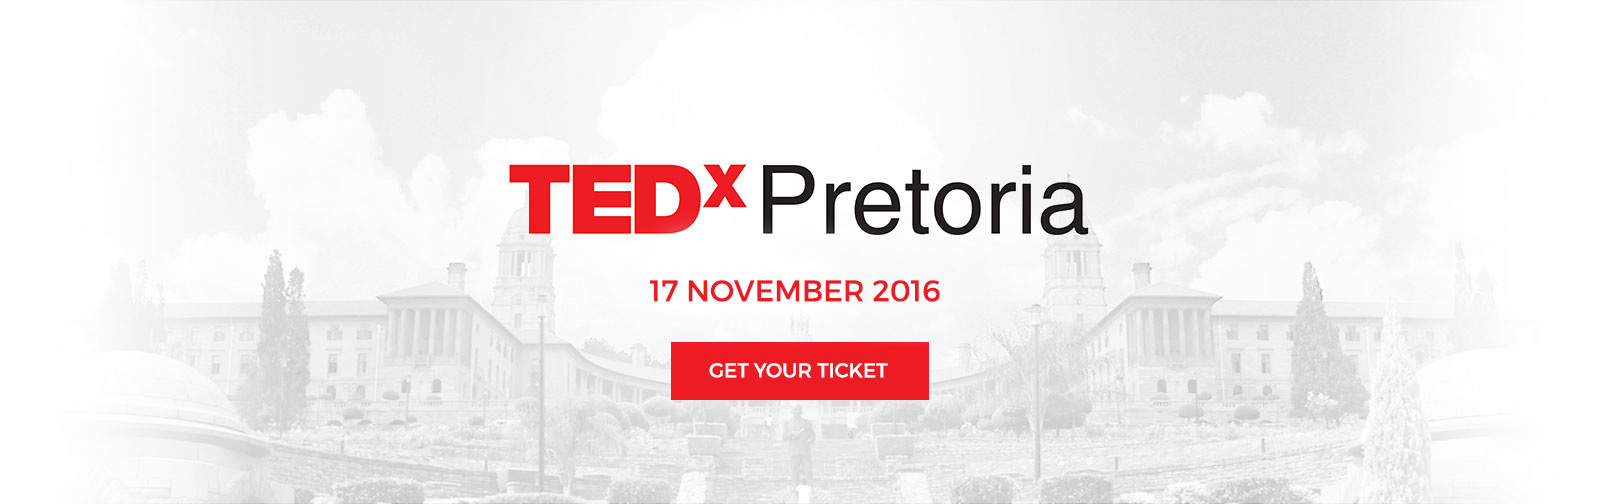
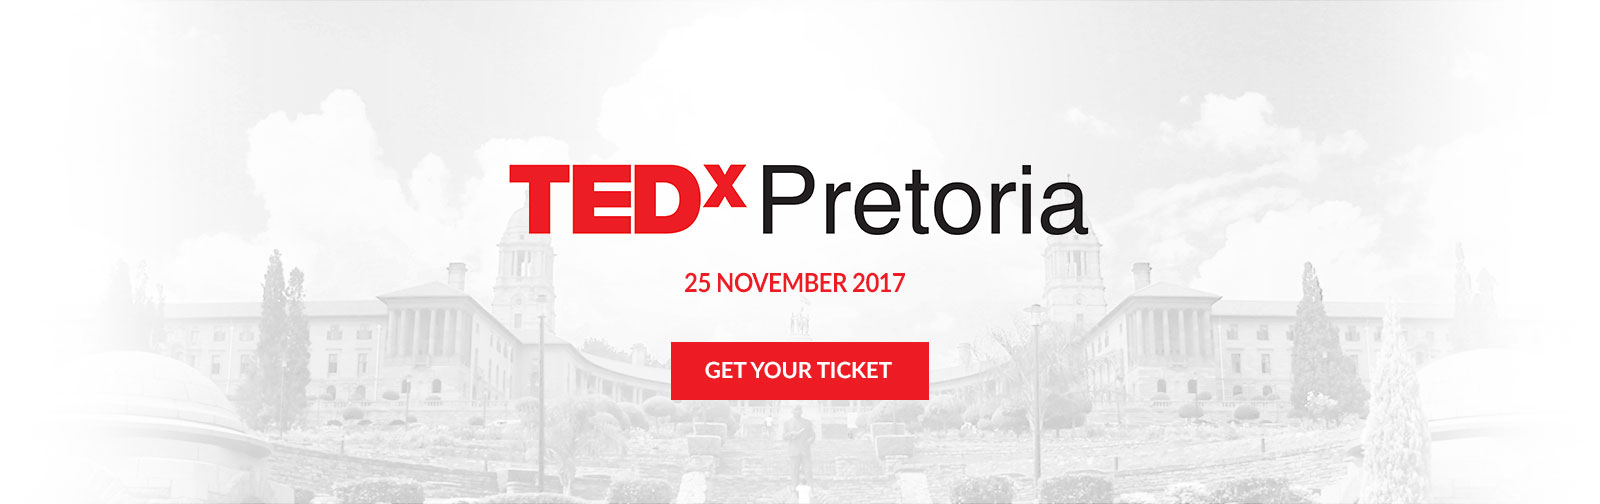
2017 - Initial Details
Ticket Updates, Banner Update, misc.

Changed region(s): [[0.4062, 0.5357, 0.5938, 0.5952], [0.4375, 0.7143, 0.5625, 0.7738], [0.4062, 0.4464, 0.4375, 0.4762]]

diff --git a/wwwroot/index.html b/wwwroot/index.html
@@ -24,7 +24,7 @@
 			<a id="header-logo-link" href="/">
 				<img class="header-logo" src="/images/logo.png" alt="Logo">
 			</a>
-			
+
 
 			<div class="header-actions">
 				<a href="javascript:;" class="menu-button" id="menu-button">
@@ -34,7 +34,7 @@
 
 			<nav>
 				<ul class="sf-menu clearfix">
-					
+
 					<li><a href="#section-home">Home</a></li>
 					<li><a href="#section-about">About</a></li>
 					<li><a href="#section-tickets">Tickets</a></li>
@@ -44,7 +44,7 @@
 					<li><a href="#section-partners">Partners</a></li>
 					<li><a href="#section-team">Team</a></li>
 					<li><a href="#section-contact">Contact</a></li>
-					
+
 				</ul>
 			</nav>
 
@@ -60,16 +60,13 @@
 			<div class="flexslider">
 			  <ul class="slides">
 			    <li>
-			      <a href="#section-tickets"><img src="/images/slider-1.jpg" /></a>
-			    </li>
-			    <li>
-			      <a href="#section-tickets"><img src="/images/slider-2.jpg" /></a>
+			      <a href="https://www.quicket.co.za/events/34308-tedxpretoria/"><img src="/images/slider-1.jpg" /></a>
 			    </li>
 			  </ul>
 			</div>
 
 		</section>
-		
+
 		<section class="red parallax">
 
 			<article>
@@ -80,7 +77,7 @@
 				<div class="column-container">
 
 					<div class="columns-2">
-						
+
 						<p>The mind-shifting short-talk phenomenon returns to Pretoria in November for a day of disruptive ideas and bold new voices challenging a business-savvy audience to reboot their thoughts and actions to meet the needs of the future.</p>
 						<p>The theme for this year’s event is “FAST FORWARD”- with change-makers, entrepreneurs, future thinkers, poets and athletes exploring the importance and impact of radical ideas and fast change in an age of upheaval.</p>
 						<p>This will be Pretoria's fourth TEDxPretoria - a localisedoffshoot of the hugely popular Technology, Education and Design (TED) series of talks which has become an international movement under the banner of "Ideas worth spreading". The talks, which are freely available online, are widely recognised   as one of the world's most inspiring sources of fresh thinking on a wide range of cultural and scientific subjects.</p>
@@ -100,7 +97,7 @@
 				<div class="column-container">
 					<div class="columns-2">
 						<p>In the spirit of ideas worth spreading, TEDx is a program of local, selforganized events that bring people together to share a TED-like experience. At a TEDx event, TEDTalks video and live speakers combine to spark deep discussion and connection in a small group. </p>
-						
+
 					</div>
 					<div class="columns-2">
 						<p>These local, self-organized events are branded TEDx, where x=independently organized TED event. The TED Conference provides general guidance for the TEDx program, but individual TEDx events are self-organized.*</p>
@@ -140,7 +137,7 @@
 				<h3>Previous TEDXPretoria Videos</h3>
 
 				<div class="column-container">
-					
+
 					<a href="https://www.youtube.com/watch?v=9mK1wukw_kw" target="_blank" class="thumbnail-box">
 						<div class="thumbnail-box-text">
 							<h6>Sonja Blignaut</h6>
@@ -190,7 +187,7 @@
 				<h3>Global TED Videos</h3>
 
 				<div class="column-container">
-					
+
 					<a href="http://www.ted.com/talks/ken_robinson_says_schools_kill_creativity" target="_blank" class="thumbnail-box">
 						<div class="thumbnail-box-text">
 							<h6>Sir Ken Robinson</h6>
@@ -272,8 +269,9 @@
 				<a name="section-tickets"></a>
 
 				<footer class="text-align-center">
-					<p>Limited tickets for the event are now available, get yours here:</p>
-					<a href="https://www.quicket.co.za/events/22068-tedxpretoria/#/" class="button button-large hollow primary">Get your Ticket</a>
+					<p>Limited tickets for the event are now available. Reserve your seat at Quicket!</p>
+					<div class="padding-bottom-30 text-align-center"><img src="/images/logo-quicket.png" alt="Quicket Logo" class="logo width-300"></div>
+					<a href="https://www.quicket.co.za/events/34308-tedxpretoria/" class="button button-large hollow primary">Get your Ticket</a>
 				</footer>
 
 			</article>
@@ -288,10 +286,10 @@
 				<a name="section-venue"></a>
 
 				<div class="column-container text-align-center">
-					<img class="logo" src="/images/logo-sponsor-012central.png" alt="Innovation Hub">	
+					<img class="logo" src="/images/logo-sponsor-012central.png" alt="Innovation Hub">
 					<hr>
 				</div>
-				
+
 
 				<div class="column-container">
 
@@ -314,7 +312,7 @@
 				</div>
 
 				<hr>
-				
+
 				<div class="column-container">
 					<div class="columns-1">
 						<!-- <iframe src="https://www.google.com/maps/embed?pb=!1m18!1m12!1m3!1d3593.665203465925!2d28.268876!3d-25.748583000000004!2m3!1f0!2f0!3f0!3m2!1i1024!2i768!4f13.1!3m3!1m2!1s0x1e956044e649a34b%3A0xff7146688dfcfc17!2sThe+Innovation+Hub+Management+Company+(Pty)+Ltd!5e0!3m2!1sen!2sza!4v1444305424389" width="100%" height="600" frameborder="0" style="border:0" allowfullscreen></iframe> -->
@@ -332,19 +330,18 @@
 
 				<h2>Programme</h2>
 				<a name="section-programme"></a>
-				
-				<!--
-				<p>Registration starts at <strong>8:00am</strong><br>
-				All delegates must be seated by <strong>8:45am</strong>.<br>
-				The event will end at <strong>18:00</strong>.</p>
-				-->
 
+				<h3 class="text-align-center">Coming Soon!</h3>
+
+				<!--
 				<hr>
 
 				<div class="article-box text-align-center">
 					<a href="/downloads/programme-2016.pdf" class="button button-large hollow primary">Download the Programme</a>
 				</div>
-				
+
+			-->
+
 			</article>
 
 		</section>
@@ -356,9 +353,11 @@
 				<h2>Speakers</h2>
 				<a name="section-speakers"></a>
 
-				<h4 class="text-align-center"><em>We are super excited to announce our speaker line-up for 2016! </em></h4>
+				<h4 class="text-align-center"><em>We are thrilled to announce our speaker line-up for 2017</em></h4>
 				<p class="text-align-center">You will see what we mean... real talent and amazing ideas are coming to the stage this year.</p>
-				<p class="text-align-center">Speaker announcements will be made on social media – follow @TEDxPretoria on <a href="https://www.facebook.com/TEDx-Pretoria-186446475246/?fref=ts" target="_blank">Facebook</a>, <a href="https://twitter.com/TedxPretoria?ref_src=twsrc%5Egoogle%7Ctwcamp%5Eserp%7Ctwgr%5Eauthor" target="_blank">Twitter</a> and <a href="https://www.instagram.com/tedxpretoria/" target="_blank">Instagram</a>.</p>
+				<p class="text-align-center"><em>Speaker line-up coming soon.</em></p>
+
+				<h3 class="text-align-center">Previous Speakers</h3>
 
 				<div class="column-container">
 
@@ -548,13 +547,13 @@
 						</div>
 					</a>
 
-					
+
 
 				</div>
 
 
 				<footer>
-					
+
 					<!-- <a href="mailto:tedxpretoria@gmail.com?subject=Speaker Nomination for TEDxPretoria" class="button button-large hollow primary">Nominate a Speaker</a> -->
 
 				</footer>
@@ -583,9 +582,9 @@
 						</div>
 					</div>
 				</div>
-				
-				
-				<div class="column-container">			
+
+
+				<div class="column-container">
 					<div class="columns-2">
 						<div class="sponsor">
 							<div class="sponsor-logo-container">
@@ -610,7 +609,7 @@
 				<!--
 				<h4 class="text-align-center">Media Partners</h4>
 
-				<div class="column-container">			
+				<div class="column-container">
 					<div class="columns-2">
 						<div class="sponsor">
 							<div class="sponsor-logo-container">
@@ -627,7 +626,7 @@
 					</div>
 				</div>
 
-				<div class="column-container">			
+				<div class="column-container">
 					<div class="columns-2">
 						<div class="sponsor">
 							<div class="sponsor-logo-container">
@@ -644,7 +643,7 @@
 					</div>
 				</div>
 
-				<div class="column-container">			
+				<div class="column-container">
 					<div class="columns-2">
 						<div class="sponsor">
 							<div class="sponsor-logo-container">
@@ -661,7 +660,7 @@
 					</div>
 				</div>
 
-				<div class="column-container">			
+				<div class="column-container">
 					<div class="columns-2">
 						<div class="sponsor">
 							<div class="sponsor-logo-container">
@@ -678,7 +677,7 @@
 					</div>
 				</div>
 
-				<div class="column-container">			
+				<div class="column-container">
 					<div class="columns-2">
 						<div class="sponsor">
 							<div class="sponsor-logo-container">
@@ -695,7 +694,7 @@
 					</div>
 				</div>
 
-				<div class="column-container">			
+				<div class="column-container">
 					<div class="columns-2">
 						<div class="sponsor">
 							<div class="sponsor-logo-container">
@@ -838,7 +837,7 @@
 					</a>
 
 				</div>
-				
+
 
 			</article>
 
@@ -858,7 +857,7 @@
 						<div class="content-box">
 
 							<form id="contact-form" action="/scripts/contact.asp">
-								
+
 								<div class="input-group">
 									<label for="contactName">Name</label>
 									<input type="text" name="contactName" id="contactName" placeholder="Enter your name.">
@@ -898,7 +897,7 @@
 
 							</form>
 
-						</div>			
+						</div>
 
 					</div>
 
@@ -907,7 +906,7 @@
 						<h4>Physical Address</h4>
 
 						<address>
-							<strong>012 Central</strong><br> 
+							<strong>012 Central</strong><br>
 							381 Church St,<br>
 							Pretoria,<br>
 							0002<br>
@@ -920,11 +919,11 @@
 						<h4>Social Media</h4>
 
 						<a class="social-bookmark" href="https://twitter.com/TedxPretoria">
-							<span class="social twitter"></span>	
+							<span class="social twitter"></span>
 						</a>
 
 						<a class="social-bookmark" href="https://www.facebook.com/Tedxpretoria">
-							<span class="social facebook"></span>	
+							<span class="social facebook"></span>
 						</a>
 
 						<h4>Contact Us</h4>
@@ -932,7 +931,7 @@
 						<ul>
 							<li><strong>Telephone:</strong> +2711 721 5319</li>
 						</ul>
-						
+
 
 					</div>
 
@@ -946,7 +945,7 @@
 			<article class="article-box">
 
 				<div class="email-form">
-					
+
 					<!-- Begin MailChimp Signup Form -->
 					<div id="mc_embed_signup">
 					<form action="//tedxpretoria.us7.list-manage.com/subscribe/post?u=732c9ddee42cc5eb65cd30fb1&amp;id=b39112bde6" method="post" id="mc-embedded-subscribe-form" name="mc-embedded-subscribe-form" class="validate" target="_blank" novalidate>
@@ -993,13 +992,13 @@
 						<div id="mce-responses" class="clear">
 							<div class="response" id="mce-error-response" style="display:none"></div>
 							<div class="response" id="mce-success-response" style="display:none"></div>
-						</div>    
+						</div>
 
 						<!-- real people should not fill this in and expect good things - do not remove this or risk form bot signups-->
 					    <div style="position: absolute; left: -5000px;">
 						    <input type="text" name="b_732c9ddee42cc5eb65cd30fb1_b39112bde6" tabindex="-1" value="">
 					    </div>
-					    
+
 					    <div class="clear text-align-right">
 					    	<input type="submit" value="Subscribe" name="subscribe" id="mc-embedded-subscribe" class="button button-large primary no-margin"></div>
 					    </div>
@@ -1014,7 +1013,7 @@
 			</article>
 
 		</section>
-		
+
 	</div>
 
 	<footer>
@@ -1023,11 +1022,11 @@
 			<div class="container">
 				<div class="footer-header">
 					<a href="/"><img src="/images/footer-logo.png" alt="Logo"></a>
-				</div>	
+				</div>
 				<div class="footer-body">
 					<div class="footer-nav">
 						<nav>
-							<ul class="">			
+							<ul class="">
 								<li><a href="#section-home">Home</a></li>
 								<li><a href="#section-about">About</a></li>
 								<li><a href="#section-tickets">Tickets</a></li>
@@ -1036,7 +1035,7 @@
 								<li><a href="#section-speakers">Speakers</a></li>
 								<li><a href="#section-partners">Partners</a></li>
 								<li><a href="#section-team">Team</a></li>
-								<li><a href="#section-contact">Contact</a></li>			
+								<li><a href="#section-contact">Contact</a></li>
 							</ul>
 						</nav>
 					</div>
@@ -1066,7 +1065,7 @@
 	<!-- <script src="js/forms.js"></script> -->
 	<script src="js/template.js"></script>
 	<script src="js/tedxpretoria.js"></script>
-	
+
 
 </body>
 </html>
